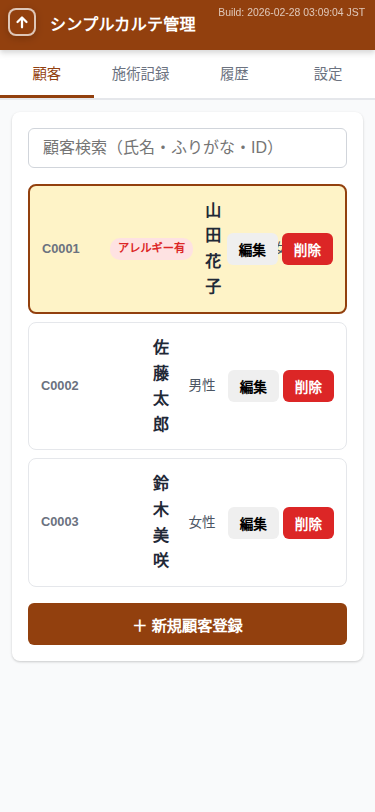
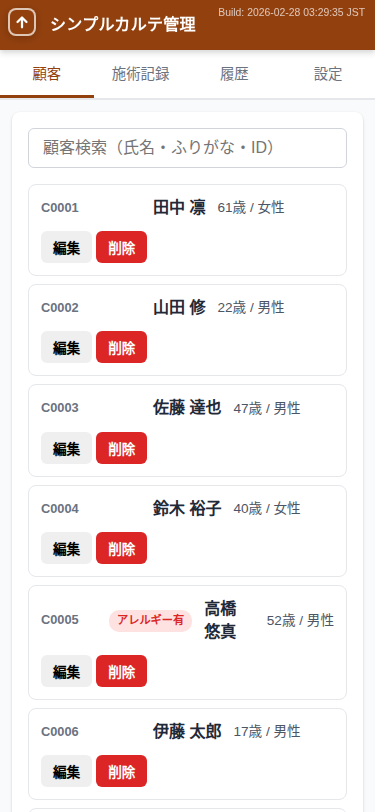
fix: モバイル表示で顧客名が1文字ずつ縦表示される問題を修正
- customer-card-body に min-width: 80px を設定し名前の表示幅を確保
- customer-name に word-break: keep-all を適用し文字単位の改行を防止
- モバイルスクリーンショットを修正後の表示に更新

diff --git a/local_app/style.css b/local_app/style.css
@@ -1125,6 +1125,16 @@ body {
         flex-wrap: wrap;
     }
 
+    .customer-card .customer-card-body {
+        min-width: 80px;
+    }
+
+    .customer-card .customer-name {
+        word-break: keep-all;
+        overflow-wrap: break-word;
+        line-height: 1.4;
+    }
+
     .customer-info-bar {
         flex-wrap: wrap;
         font-size: 0.85em;

diff --git a/local_app/sw.js b/local_app/sw.js
@@ -3,7 +3,7 @@
  * アセットキャッシュによる完全オフライン対応
  */
 
-const CACHE_NAME = 'smrm-v1.0.0-1772215744';
+const CACHE_NAME = 'smrm-v1.0.0-1772216975';
 
 const PRECACHE_ASSETS = [
     '/',

diff --git a/local_app/version.js b/local_app/version.js
@@ -1,4 +1,4 @@
 window.APP_INFO = {
     version: "1.0.0",
-    buildTime: "2026-02-28 03:09:04 JST"
+    buildTime: "2026-02-28 03:29:35 JST"
 };
